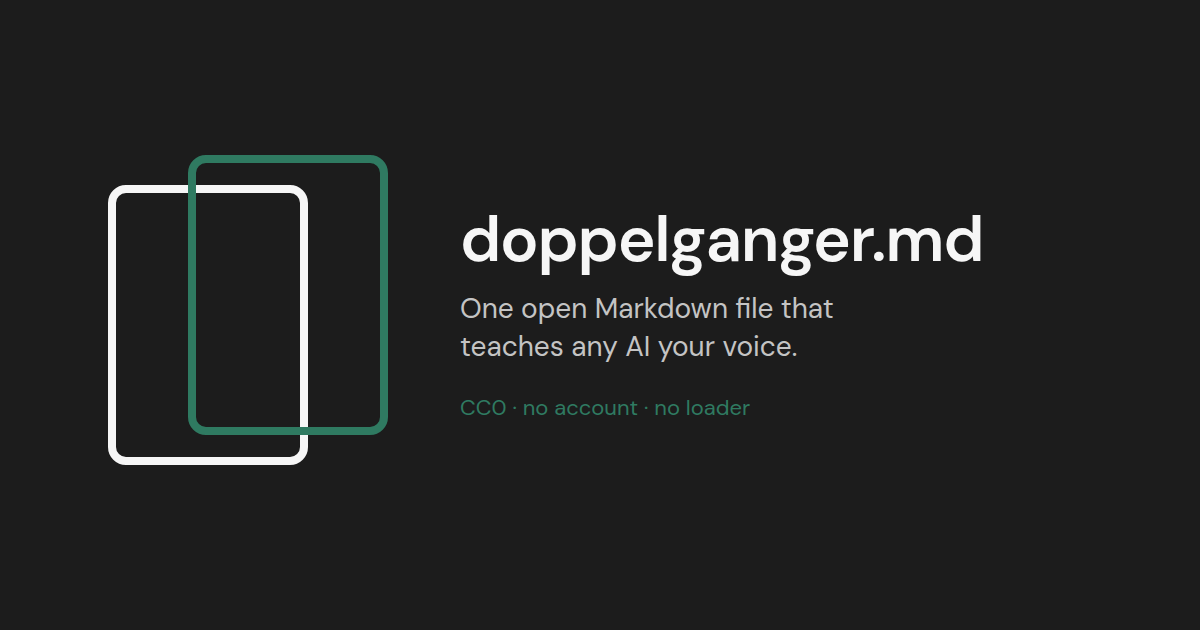
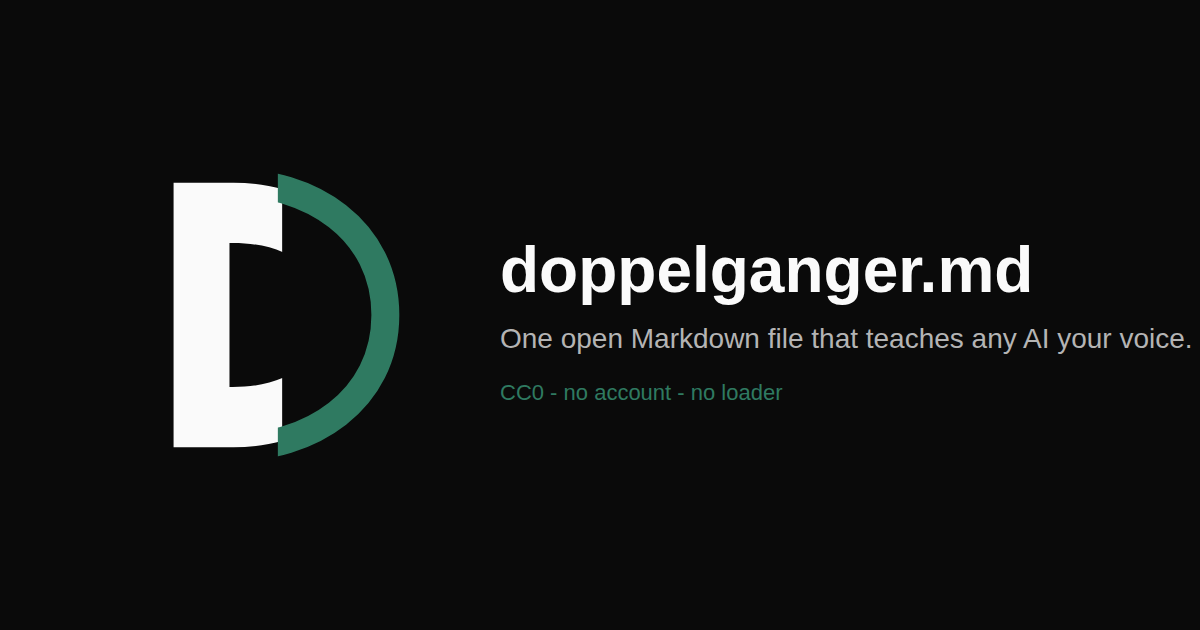
feat(site): replace dual-doc mark with a mirror-split D
Header, favicon, OG, and apple-touch use one hand-authored D. Solid stem on the left, outline twin on the right. Wordmark stays plain DM Sans. Dual-doc rectangles are gone.

Skip-link verify stays next to the new mark check.

Changed region(s): [[0.0925, 0.2413, 0.3392, 0.754], [0.37, 0.3317, 0.9867, 0.573], [0.37, 0.6032, 0.6475, 0.6635]]

diff --git a/docs/faq.html b/docs/faq.html
@@ -20,6 +20,7 @@
   <meta name="twitter:image:alt" content="doppelganger.md. One open Markdown file that teaches any AI your voice.">
   <meta name="color-scheme" content="dark light">
   <link rel="icon" href="favicon.svg" type="image/svg+xml">
+  <link rel="apple-touch-icon" href="apple-touch-icon.png">
   <script type="application/ld+json">
 {
   "@context": "https://schema.org",
@@ -144,7 +145,19 @@
   <a class="skip" href="#content">Skip to content</a>
   <header class="site-header">
     <div class="shell">
-      <a class="brand" href="index.html">doppelganger.md</a>
+      <a class="brand" href="index.html">
+        <svg class="mark" xmlns="http://www.w3.org/2000/svg" viewBox="0 0 32 32" fill="none" aria-hidden="true">
+          <defs>
+            <clipPath id="dg-left"><rect width="16.2" height="32"/></clipPath>
+            <clipPath id="dg-right"><rect x="15.8" width="16.2" height="32"/></clipPath>
+            <path id="dg-d" fill-rule="evenodd" d="M6.1 3.7H11.2C18.8 3.5 25.8 8.1 25.8 16C25.8 23.9 18.8 28.5 11.2 28.3H6.1V3.7ZM11.3 9.3V22.7C16.7 22.8 20.1 20.3 20.1 16C20.1 11.7 16.7 9.2 11.3 9.3Z"/>
+            <path id="dg-outer" d="M6.1 3.7H11.2C18.8 3.5 25.8 8.1 25.8 16C25.8 23.9 18.8 28.5 11.2 28.3H6.1V3.7Z"/>
+          </defs>
+          <use href="#dg-d" class="mark-solid" clip-path="url(#dg-left)"/>
+          <use href="#dg-outer" class="mark-twin" clip-path="url(#dg-right)"/>
+        </svg>
+        <span>doppelganger.md</span>
+      </a>
       <nav class="nav-wide" aria-label="Site"><ul><li><a class="nav-link" href="index.html">Home</a></li><li><a class="nav-link" href="structure.html">Structure</a></li><li><a class="nav-link" href="load.html">Load</a></li><li><a class="nav-link" href="example.html">Example</a></li><li><a class="nav-link" href="faq.html" aria-current="page">FAQ</a></li><li><a class="nav-link" href="spec.html">Spec</a></li></ul></nav>
       <div class="tools">
         <button class="theme-toggle" type="button" aria-label="Switch to light theme" aria-pressed="true">

diff --git a/docs/index.html b/docs/index.html
@@ -20,6 +20,7 @@
   <meta name="twitter:image:alt" content="doppelganger.md. One open Markdown file that teaches any AI your voice.">
   <meta name="color-scheme" content="dark light">
   <link rel="icon" href="favicon.svg" type="image/svg+xml">
+  <link rel="apple-touch-icon" href="apple-touch-icon.png">
   <script type="application/ld+json">
 {
   "@context": "https://schema.org",
@@ -73,7 +74,19 @@
   <a class="skip" href="#content">Skip to content</a>
   <header class="site-header">
     <div class="shell">
-      <a class="brand" href="index.html">doppelganger.md</a>
+      <a class="brand" href="index.html">
+        <svg class="mark" xmlns="http://www.w3.org/2000/svg" viewBox="0 0 32 32" fill="none" aria-hidden="true">
+          <defs>
+            <clipPath id="dg-left"><rect width="16.2" height="32"/></clipPath>
+            <clipPath id="dg-right"><rect x="15.8" width="16.2" height="32"/></clipPath>
+            <path id="dg-d" fill-rule="evenodd" d="M6.1 3.7H11.2C18.8 3.5 25.8 8.1 25.8 16C25.8 23.9 18.8 28.5 11.2 28.3H6.1V3.7ZM11.3 9.3V22.7C16.7 22.8 20.1 20.3 20.1 16C20.1 11.7 16.7 9.2 11.3 9.3Z"/>
+            <path id="dg-outer" d="M6.1 3.7H11.2C18.8 3.5 25.8 8.1 25.8 16C25.8 23.9 18.8 28.5 11.2 28.3H6.1V3.7Z"/>
+          </defs>
+          <use href="#dg-d" class="mark-solid" clip-path="url(#dg-left)"/>
+          <use href="#dg-outer" class="mark-twin" clip-path="url(#dg-right)"/>
+        </svg>
+        <span>doppelganger.md</span>
+      </a>
       <nav class="nav-wide" aria-label="Site"><ul><li><a class="nav-link" href="index.html" aria-current="page">Home</a></li><li><a class="nav-link" href="structure.html">Structure</a></li><li><a class="nav-link" href="load.html">Load</a></li><li><a class="nav-link" href="example.html">Example</a></li><li><a class="nav-link" href="faq.html">FAQ</a></li><li><a class="nav-link" href="spec.html">Spec</a></li></ul></nav>
       <div class="tools">
         <button class="theme-toggle" type="button" aria-label="Switch to light theme" aria-pressed="true">

diff --git a/docs/example.html b/docs/example.html
@@ -20,6 +20,7 @@
   <meta name="twitter:image:alt" content="doppelganger.md. One open Markdown file that teaches any AI your voice.">
   <meta name="color-scheme" content="dark light">
   <link rel="icon" href="favicon.svg" type="image/svg+xml">
+  <link rel="apple-touch-icon" href="apple-touch-icon.png">
 
   <script>
     (() => {
@@ -64,7 +65,19 @@
   <a class="skip" href="#content">Skip to content</a>
   <header class="site-header">
     <div class="shell">
-      <a class="brand" href="index.html">doppelganger.md</a>
+      <a class="brand" href="index.html">
+        <svg class="mark" xmlns="http://www.w3.org/2000/svg" viewBox="0 0 32 32" fill="none" aria-hidden="true">
+          <defs>
+            <clipPath id="dg-left"><rect width="16.2" height="32"/></clipPath>
+            <clipPath id="dg-right"><rect x="15.8" width="16.2" height="32"/></clipPath>
+            <path id="dg-d" fill-rule="evenodd" d="M6.1 3.7H11.2C18.8 3.5 25.8 8.1 25.8 16C25.8 23.9 18.8 28.5 11.2 28.3H6.1V3.7ZM11.3 9.3V22.7C16.7 22.8 20.1 20.3 20.1 16C20.1 11.7 16.7 9.2 11.3 9.3Z"/>
+            <path id="dg-outer" d="M6.1 3.7H11.2C18.8 3.5 25.8 8.1 25.8 16C25.8 23.9 18.8 28.5 11.2 28.3H6.1V3.7Z"/>
+          </defs>
+          <use href="#dg-d" class="mark-solid" clip-path="url(#dg-left)"/>
+          <use href="#dg-outer" class="mark-twin" clip-path="url(#dg-right)"/>
+        </svg>
+        <span>doppelganger.md</span>
+      </a>
       <nav class="nav-wide" aria-label="Site"><ul><li><a class="nav-link" href="index.html">Home</a></li><li><a class="nav-link" href="structure.html">Structure</a></li><li><a class="nav-link" href="load.html">Load</a></li><li><a class="nav-link" href="example.html" aria-current="page">Example</a></li><li><a class="nav-link" href="faq.html">FAQ</a></li><li><a class="nav-link" href="spec.html">Spec</a></li></ul></nav>
       <div class="tools">
         <button class="theme-toggle" type="button" aria-label="Switch to light theme" aria-pressed="true">

diff --git a/docs/load.html b/docs/load.html
@@ -20,6 +20,7 @@
   <meta name="twitter:image:alt" content="doppelganger.md. One open Markdown file that teaches any AI your voice.">
   <meta name="color-scheme" content="dark light">
   <link rel="icon" href="favicon.svg" type="image/svg+xml">
+  <link rel="apple-touch-icon" href="apple-touch-icon.png">
 
   <script>
     (() => {
@@ -64,7 +65,19 @@
   <a class="skip" href="#content">Skip to content</a>
   <header class="site-header">
     <div class="shell">
-      <a class="brand" href="index.html">doppelganger.md</a>
+      <a class="brand" href="index.html">
+        <svg class="mark" xmlns="http://www.w3.org/2000/svg" viewBox="0 0 32 32" fill="none" aria-hidden="true">
+          <defs>
+            <clipPath id="dg-left"><rect width="16.2" height="32"/></clipPath>
+            <clipPath id="dg-right"><rect x="15.8" width="16.2" height="32"/></clipPath>
+            <path id="dg-d" fill-rule="evenodd" d="M6.1 3.7H11.2C18.8 3.5 25.8 8.1 25.8 16C25.8 23.9 18.8 28.5 11.2 28.3H6.1V3.7ZM11.3 9.3V22.7C16.7 22.8 20.1 20.3 20.1 16C20.1 11.7 16.7 9.2 11.3 9.3Z"/>
+            <path id="dg-outer" d="M6.1 3.7H11.2C18.8 3.5 25.8 8.1 25.8 16C25.8 23.9 18.8 28.5 11.2 28.3H6.1V3.7Z"/>
+          </defs>
+          <use href="#dg-d" class="mark-solid" clip-path="url(#dg-left)"/>
+          <use href="#dg-outer" class="mark-twin" clip-path="url(#dg-right)"/>
+        </svg>
+        <span>doppelganger.md</span>
+      </a>
       <nav class="nav-wide" aria-label="Site"><ul><li><a class="nav-link" href="index.html">Home</a></li><li><a class="nav-link" href="structure.html">Structure</a></li><li><a class="nav-link" href="load.html" aria-current="page">Load</a></li><li><a class="nav-link" href="example.html">Example</a></li><li><a class="nav-link" href="faq.html">FAQ</a></li><li><a class="nav-link" href="spec.html">Spec</a></li></ul></nav>
       <div class="tools">
         <button class="theme-toggle" type="button" aria-label="Switch to light theme" aria-pressed="true">

diff --git a/docs/spec.html b/docs/spec.html
@@ -20,6 +20,7 @@
   <meta name="twitter:image:alt" content="doppelganger.md. One open Markdown file that teaches any AI your voice.">
   <meta name="color-scheme" content="dark light">
   <link rel="icon" href="favicon.svg" type="image/svg+xml">
+  <link rel="apple-touch-icon" href="apple-touch-icon.png">
 
   <script>
     (() => {
@@ -64,7 +65,19 @@
   <a class="skip" href="#content">Skip to content</a>
   <header class="site-header">
     <div class="shell">
-      <a class="brand" href="index.html">doppelganger.md</a>
+      <a class="brand" href="index.html">
+        <svg class="mark" xmlns="http://www.w3.org/2000/svg" viewBox="0 0 32 32" fill="none" aria-hidden="true">
+          <defs>
+            <clipPath id="dg-left"><rect width="16.2" height="32"/></clipPath>
+            <clipPath id="dg-right"><rect x="15.8" width="16.2" height="32"/></clipPath>
+            <path id="dg-d" fill-rule="evenodd" d="M6.1 3.7H11.2C18.8 3.5 25.8 8.1 25.8 16C25.8 23.9 18.8 28.5 11.2 28.3H6.1V3.7ZM11.3 9.3V22.7C16.7 22.8 20.1 20.3 20.1 16C20.1 11.7 16.7 9.2 11.3 9.3Z"/>
+            <path id="dg-outer" d="M6.1 3.7H11.2C18.8 3.5 25.8 8.1 25.8 16C25.8 23.9 18.8 28.5 11.2 28.3H6.1V3.7Z"/>
+          </defs>
+          <use href="#dg-d" class="mark-solid" clip-path="url(#dg-left)"/>
+          <use href="#dg-outer" class="mark-twin" clip-path="url(#dg-right)"/>
+        </svg>
+        <span>doppelganger.md</span>
+      </a>
       <nav class="nav-wide" aria-label="Site"><ul><li><a class="nav-link" href="index.html">Home</a></li><li><a class="nav-link" href="structure.html">Structure</a></li><li><a class="nav-link" href="load.html">Load</a></li><li><a class="nav-link" href="example.html">Example</a></li><li><a class="nav-link" href="faq.html">FAQ</a></li><li><a class="nav-link" href="spec.html" aria-current="page">Spec</a></li></ul></nav>
       <div class="tools">
         <button class="theme-toggle" type="button" aria-label="Switch to light theme" aria-pressed="true">

diff --git a/docs/structure.html b/docs/structure.html
@@ -20,6 +20,7 @@
   <meta name="twitter:image:alt" content="doppelganger.md. One open Markdown file that teaches any AI your voice.">
   <meta name="color-scheme" content="dark light">
   <link rel="icon" href="favicon.svg" type="image/svg+xml">
+  <link rel="apple-touch-icon" href="apple-touch-icon.png">
 
   <script>
     (() => {
@@ -64,7 +65,19 @@
   <a class="skip" href="#content">Skip to content</a>
   <header class="site-header">
     <div class="shell">
-      <a class="brand" href="index.html">doppelganger.md</a>
+      <a class="brand" href="index.html">
+        <svg class="mark" xmlns="http://www.w3.org/2000/svg" viewBox="0 0 32 32" fill="none" aria-hidden="true">
+          <defs>
+            <clipPath id="dg-left"><rect width="16.2" height="32"/></clipPath>
+            <clipPath id="dg-right"><rect x="15.8" width="16.2" height="32"/></clipPath>
+            <path id="dg-d" fill-rule="evenodd" d="M6.1 3.7H11.2C18.8 3.5 25.8 8.1 25.8 16C25.8 23.9 18.8 28.5 11.2 28.3H6.1V3.7ZM11.3 9.3V22.7C16.7 22.8 20.1 20.3 20.1 16C20.1 11.7 16.7 9.2 11.3 9.3Z"/>
+            <path id="dg-outer" d="M6.1 3.7H11.2C18.8 3.5 25.8 8.1 25.8 16C25.8 23.9 18.8 28.5 11.2 28.3H6.1V3.7Z"/>
+          </defs>
+          <use href="#dg-d" class="mark-solid" clip-path="url(#dg-left)"/>
+          <use href="#dg-outer" class="mark-twin" clip-path="url(#dg-right)"/>
+        </svg>
+        <span>doppelganger.md</span>
+      </a>
       <nav class="nav-wide" aria-label="Site"><ul><li><a class="nav-link" href="index.html">Home</a></li><li><a class="nav-link" href="structure.html" aria-current="page">Structure</a></li><li><a class="nav-link" href="load.html">Load</a></li><li><a class="nav-link" href="example.html">Example</a></li><li><a class="nav-link" href="faq.html">FAQ</a></li><li><a class="nav-link" href="spec.html">Spec</a></li></ul></nav>
       <div class="tools">
         <button class="theme-toggle" type="button" aria-label="Switch to light theme" aria-pressed="true">

diff --git a/site/template.html b/site/template.html
@@ -20,6 +20,7 @@
   <meta name="twitter:image:alt" content="doppelganger.md. One open Markdown file that teaches any AI your voice.">
   <meta name="color-scheme" content="dark light">
   <link rel="icon" href="favicon.svg" type="image/svg+xml">
+  <link rel="apple-touch-icon" href="apple-touch-icon.png">
 {{JSON_LD}}
   <script>
     (() => {
@@ -64,7 +65,19 @@
   <a class="skip" href="#content">Skip to content</a>
   <header class="site-header">
     <div class="shell">
-      <a class="brand" href="index.html">doppelganger.md</a>
+      <a class="brand" href="index.html">
+        <svg class="mark" xmlns="http://www.w3.org/2000/svg" viewBox="0 0 32 32" fill="none" aria-hidden="true">
+          <defs>
+            <clipPath id="dg-left"><rect width="16.2" height="32"/></clipPath>
+            <clipPath id="dg-right"><rect x="15.8" width="16.2" height="32"/></clipPath>
+            <path id="dg-d" fill-rule="evenodd" d="M6.1 3.7H11.2C18.8 3.5 25.8 8.1 25.8 16C25.8 23.9 18.8 28.5 11.2 28.3H6.1V3.7ZM11.3 9.3V22.7C16.7 22.8 20.1 20.3 20.1 16C20.1 11.7 16.7 9.2 11.3 9.3Z"/>
+            <path id="dg-outer" d="M6.1 3.7H11.2C18.8 3.5 25.8 8.1 25.8 16C25.8 23.9 18.8 28.5 11.2 28.3H6.1V3.7Z"/>
+          </defs>
+          <use href="#dg-d" class="mark-solid" clip-path="url(#dg-left)"/>
+          <use href="#dg-outer" class="mark-twin" clip-path="url(#dg-right)"/>
+        </svg>
+        <span>doppelganger.md</span>
+      </a>
       <nav class="nav-wide" aria-label="Site">{{NAV}}</nav>
       <div class="tools">
         <button class="theme-toggle" type="button" aria-label="Switch to light theme" aria-pressed="true">

diff --git a/docs/styles.css b/docs/styles.css
@@ -168,10 +168,28 @@ a:hover {
 .brand {
   display: inline-flex;
   align-items: center;
+  gap: 0.5rem;
   min-height: var(--tap);
   font-weight: 600;
   letter-spacing: -0.01em;
   text-decoration: none;
+}
+
+.brand .mark {
+  width: 1.25rem;
+  height: 1.25rem;
+  flex-shrink: 0;
+}
+
+.brand .mark-solid {
+  fill: currentColor;
+}
+
+.brand .mark-twin {
+  fill: none;
+  stroke: var(--primary);
+  stroke-width: 2.6;
+  stroke-linejoin: round;
 }
 
 nav ul {

diff --git a/site/styles.css b/site/styles.css
@@ -168,10 +168,28 @@ a:hover {
 .brand {
   display: inline-flex;
   align-items: center;
+  gap: 0.5rem;
   min-height: var(--tap);
   font-weight: 600;
   letter-spacing: -0.01em;
   text-decoration: none;
+}
+
+.brand .mark {
+  width: 1.25rem;
+  height: 1.25rem;
+  flex-shrink: 0;
+}
+
+.brand .mark-solid {
+  fill: currentColor;
+}
+
+.brand .mark-twin {
+  fill: none;
+  stroke: var(--primary);
+  stroke-width: 2.6;
+  stroke-linejoin: round;
 }
 
 nav ul {

diff --git a/DESIGN.md b/DESIGN.md
@@ -111,7 +111,7 @@ Restrained neutrals plus one emerald accent. Source of truth is `site/preset-bIm
 
 ### Primary
 
-- **Emerald action** (`oklch(0.508 0.118 165.612)` light, `oklch(0.432 0.095 166.913)` dark): primary buttons only. Not headings, not rules, not decorative bars.
+- **Emerald action** (`oklch(0.508 0.118 165.612)` light, `oklch(0.432 0.095 166.913)` dark): primary buttons, and the outline twin of the D mark. Not headings, not rules, not decorative bars.
 
 ### Neutral, dark default (`.dark`)
 
@@ -129,7 +129,7 @@ Restrained neutrals plus one emerald accent. Source of truth is `site/preset-bIm
 - **Hairline** (`oklch(0.922 0 0)`): header rule, table rows, outline buttons.
 - **Wash** (`oklch(0.97 0 0)`): code chips and pre backgrounds.
 
-**The Action-Only Emerald Rule.** If it is not pressable, it is not emerald.
+**The Action-Only Emerald Rule.** If it is not pressable, it is not emerald. The D mark outline twin is the one identity exception.
 
 ## Typography
 
@@ -190,7 +190,11 @@ None on the marketing pages. If one appears, use `--input` and `--ring` from the
 
 ### Navigation
 
-Wordmark left. Subtle translucent bar. Idle links use quiet ink. Current page uses ink and, from 1280, an underline. Two DOM navs exist so CSS can hide one per breakpoint without JavaScript. `display: none` removes the hidden one from the accessibility tree.
+Wordmark left: a 20px custom D mark (solid stem, outline twin) plus plain DM Sans `doppelganger.md`. Subtle translucent bar. Idle links use quiet ink. Current page uses ink and, from 1280, an underline. Two DOM navs exist so CSS can hide one per breakpoint without JavaScript. `display: none` removes the hidden one from the accessibility tree.
+
+### Mark
+
+Hand-authored SVG capital D, mirror-split at the vertical axis: filled stem on the left, stroke twin on the right. Optical corrections: heavier stem, bowl overshoot, open counter. Favicon is the D only, snapped for 16×16, with a rounded square ground. Header uses `currentColor` fill and `--primary` stroke. `site/mark-mono.svg` is both halves in `currentColor`. Not two documents, not a face, not a yin-yang.
 
 ### Theme toggle
 

diff --git a/.impeccable/surfaces/site-pages-index-html.md b/.impeccable/surfaces/site-pages-index-html.md
@@ -23,7 +23,7 @@ OWN-WORLD: Dark bImeCHq ground by default, light paper one switch away. Emerald 
 
 STORY: Visitor reads the filename, one sentence, a short why, and two primary actions. They download the example or copy the starter prompt. Load-guide detail stays below.
 
-FIRST VIEWPORT at 390: skip link, wordmark, sun theme toggle (44px), Menu (44px). Then H1 DOPPELGANGER.md at clamp huge. One lede sentence. One short why. Two emerald buttons: Download example, Copy starter prompt. Below the fold: How to load steps and a short For agents block. At 1280 the same axis, more air, horizontal subtle nav, theme toggle still visible.
+FIRST VIEWPORT at 390: skip link, D mark + wordmark, sun theme toggle (44px), Menu (44px). Then H1 DOPPELGANGER.md at clamp huge. One lede sentence. One short why. Two emerald buttons: Download example, Copy starter prompt. Below the fold: How to load steps and a short For agents block. At 1280 the same axis, more air, horizontal subtle nav, theme toggle still visible.
 
 FORM: library catalog call slip, assignment index 6 of seed a3aaf8a3, translated onto brief-pinned bImeCHq materials. Raise from consumer-app challenger: touch targets and action-only emerald. Raise from Massin: scale is volume, so the H1 is huge. Raise from Versailles: one reading axis. Raise from drum-machine: numbered steps on load.
 

diff --git a/PRODUCT.md b/PRODUCT.md
@@ -51,6 +51,7 @@ Writers keep `DOPPELGANGER.md` on disk or in a repo. They load it in the tools t
 - Home lead: one open Markdown file that teaches any AI your voice. Never `AGENTS.md` on the home lead.
 - Theme: dark by default from the preset's `.dark` block. A header switch to light persists as `theme` in `localStorage`.
 - Instant start: Download example (the Mara file) and Copy starter prompt. No npx.
+- Mark: a custom mirror-split D (solid | outline twin). Wordmark is plain DM Sans `doppelganger.md`.
 - Inspiration for rhythm, not assets: agents.md, impeccable.style, terafab.ai. Sparse, huge type, almost no prose.
 - No company branding on the site.
 
